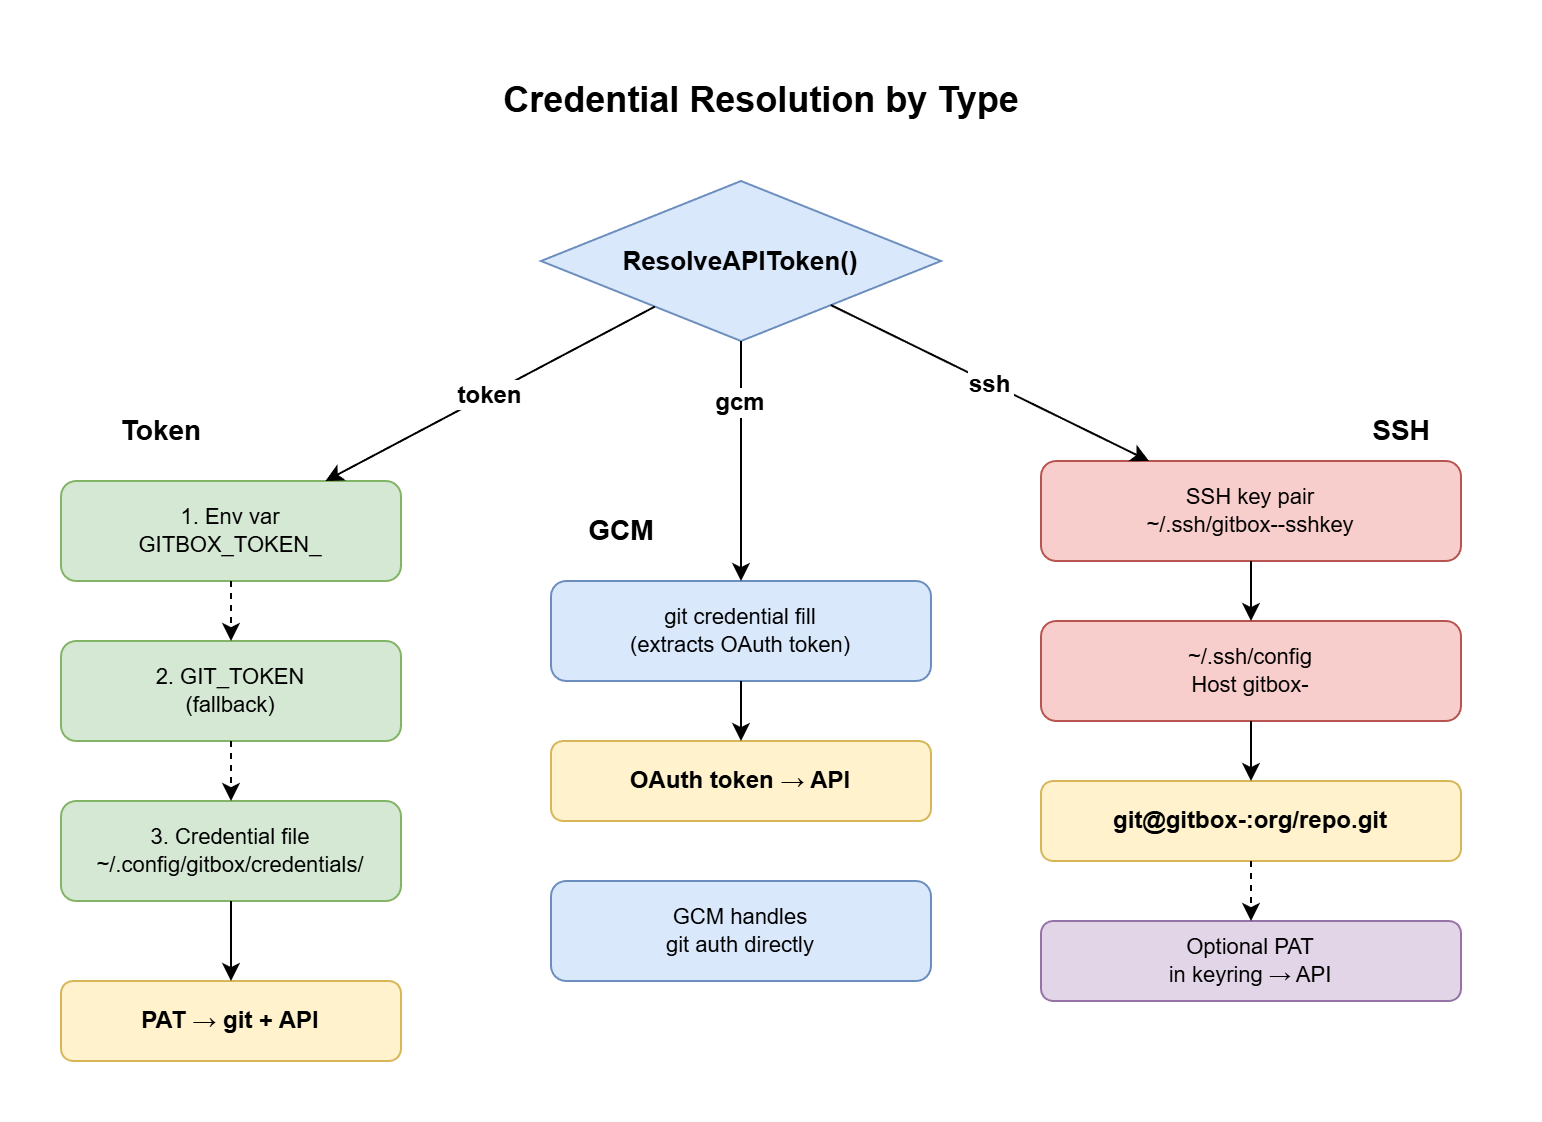
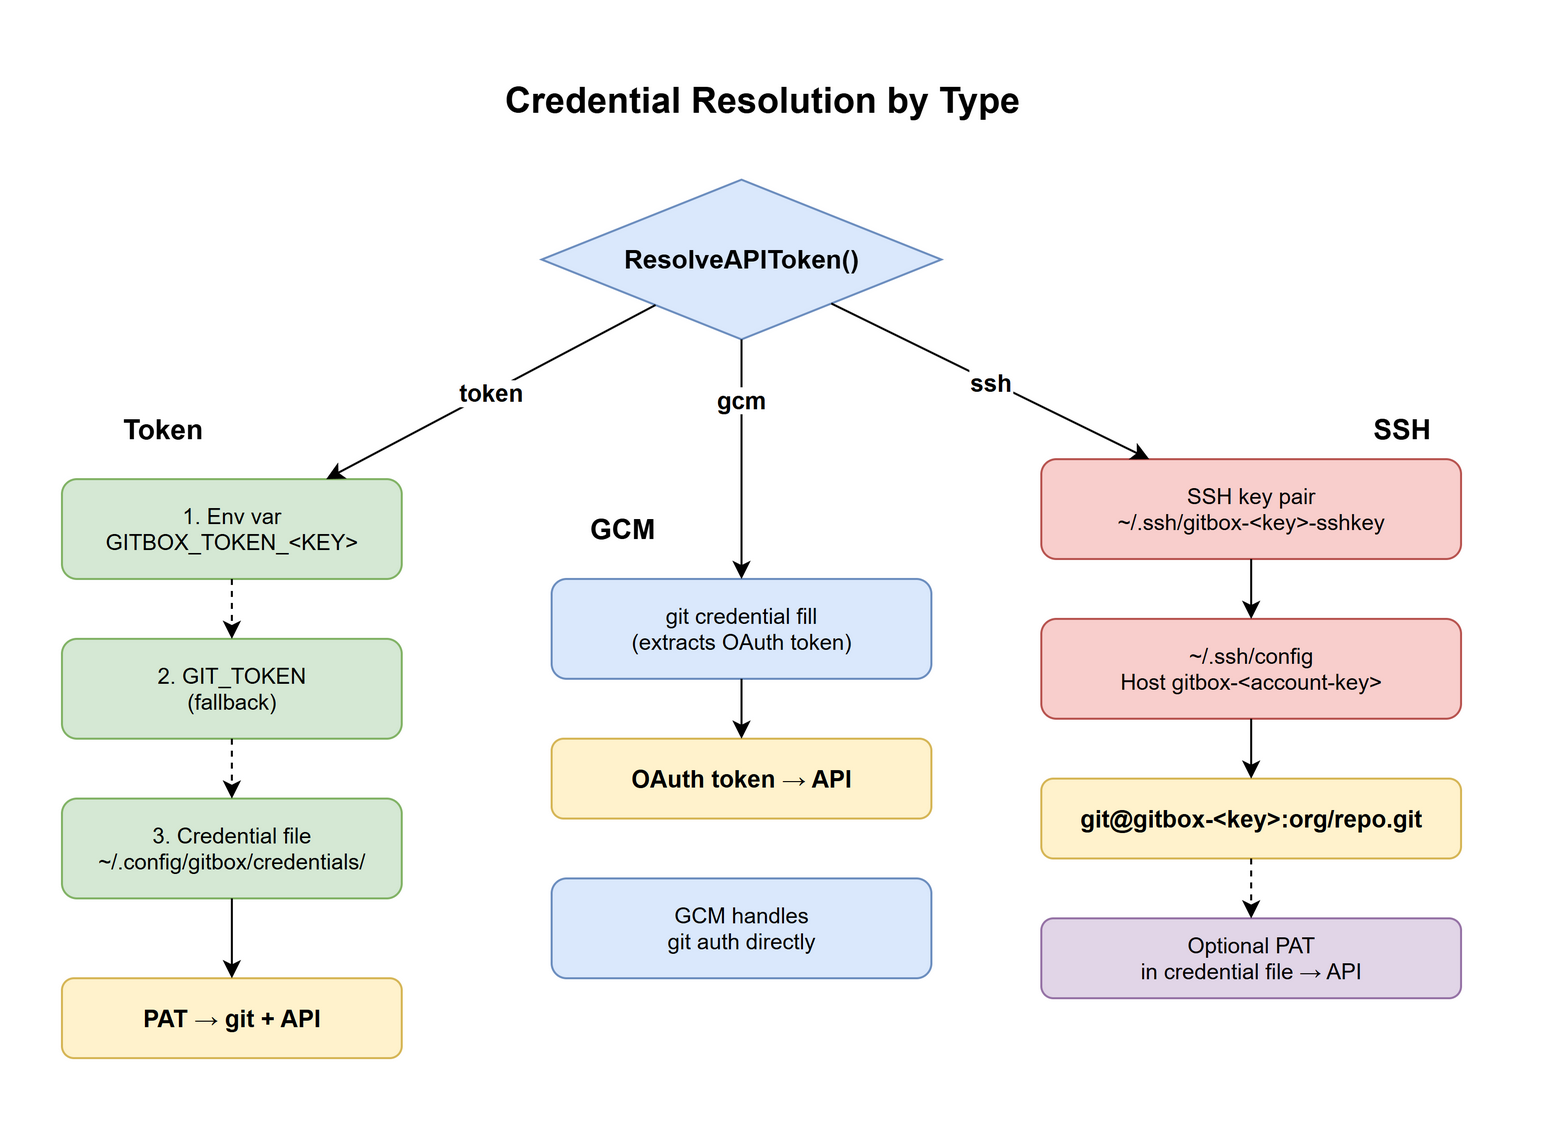
fix(ci): make the macOS signing gate resolve; refresh credential diagrams (#160)
- The DMG jobs gated their import, codesign and notarize steps on
  env.APPLE_CERTIFICATE, which those steps only set in their own env.
  A step's env is not visible in its if:, so the steps would always be
  skipped once signing is enabled. Each DMG job now sets a job-level
  APPLE_SIGNING flag from the secret and the steps test that flag. The
  macOS signing docs (English and Spanish) describe the new gate.
- The credential diagrams no longer mention a keyring: the SSH companion
  PAT lives in the credential file, and GCM keeps its credential in the
  OS credential store. The flow diagram also renders its <key>
  placeholders again, and both PNGs are re-exported from the current
  sources.

diff --git a/docs/es/macos-signing.md b/docs/es/macos-signing.md
@@ -6,7 +6,7 @@ Esto es distinto de la firma SSH sobre `checksums.sha256` que cada release inclu
 
 ## Qué cubre la ruta de CI
 
-Los jobs `dmg-macos-arm64` y `dmg-macos-amd64` ejecutan estos pasos solo cuando `env.APPLE_CERTIFICATE != ''`:
+Los jobs `dmg-macos-arm64` y `dmg-macos-amd64` ejecutan estos pasos solo cuando el secreto `APPLE_CERTIFICATE` está definido (el indicador `APPLE_SIGNING` del job):
 
 1. **Import signing certificate**: decodifica el `.p12` en un `build.keychain` efímero.
 2. **Codesign app bundle**: firma `GitboxApp.app` con `codesign --force --deep --sign "$APPLE_IDENTITY" --options runtime`.

diff --git a/docs/macos-signing.md b/docs/macos-signing.md
@@ -6,7 +6,7 @@ This is separate from the SSH signature over `checksums.sha256` that every relea
 
 ## What the CI path covers
 
-The `dmg-macos-arm64` and `dmg-macos-amd64` jobs run these steps only when `env.APPLE_CERTIFICATE != ''`:
+The `dmg-macos-arm64` and `dmg-macos-amd64` jobs run these steps only when the `APPLE_CERTIFICATE` secret is set (the job-level `APPLE_SIGNING` flag):
 
 1. **Import signing certificate**: decodes the `.p12` into an ephemeral `build.keychain`.
 2. **Codesign app bundle**: signs `GitboxApp.app` with `codesign --force --deep --sign "$APPLE_IDENTITY" --options runtime`.
